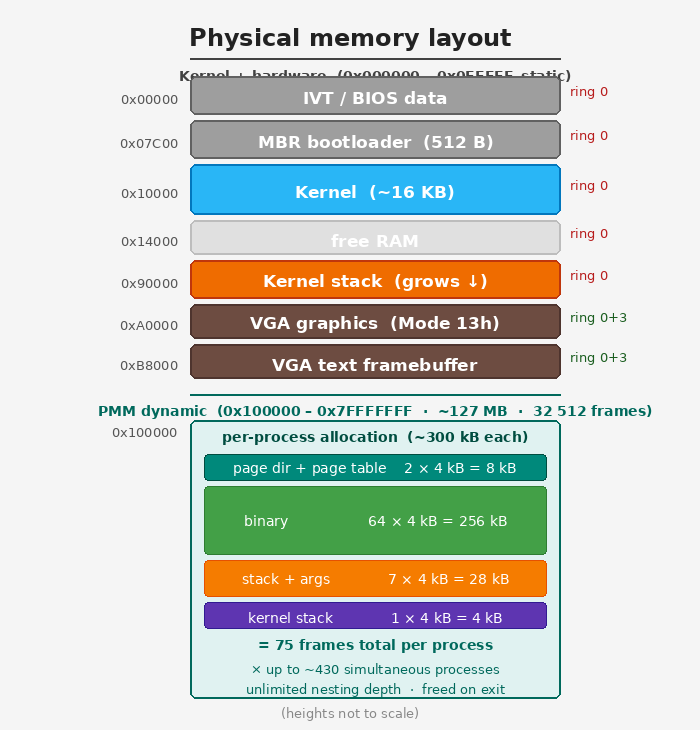
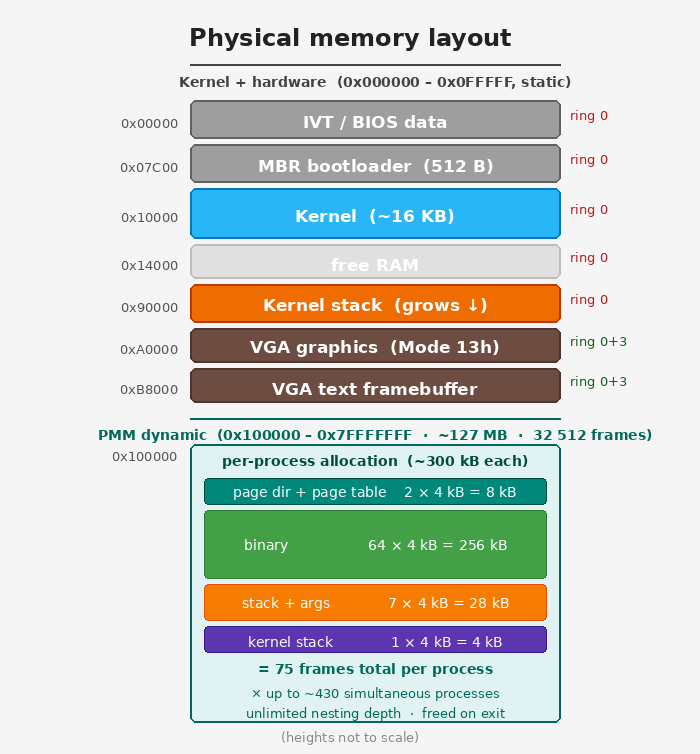
docs: fix diagram layout issues
physical-layout.png: push kernel/HW section down to avoid overlap
between section header text and title; increase canvas height.
virtual-layout.png: increase canvas width and reduce title font size
so the title is no longer clipped.

Changed region(s): [[0.12, 0.0301, 0.93, 0.9945]]

diff --git a/docs/gen_diagrams.py b/docs/gen_diagrams.py
@@ -94,7 +94,7 @@ def make_disk_layout():
 # ── physical-layout.png ───────────────────────────────────────────────────────
 
 def make_physical_layout():
-    W, H = 700, 730
+    W, H = 700, 754
     img = Image.new("RGB", (W, H), "#f5f5f5")
     draw = ImageDraw.Draw(img)
 
@@ -122,16 +122,16 @@ def make_physical_layout():
         text_center(draw, (LX+RX)//2, y + 18, text, fh, color)
 
     # ── kernel / hardware (static) ────────────────────────────────────────────
-    section_header(56, "Kernel + hardware  (0x000000 – 0x0FFFFF, static)", "#424242")
+    section_header(62, "Kernel + hardware  (0x000000 – 0x0FFFFF, static)", "#424242")
 
     kern_rows = [
-        (76,  38, "#9e9e9e", "#616161", "IVT / BIOS data",          "0x00000",  "ring 0",   "#b71c1c"),
-        (120, 38, "#9e9e9e", "#616161", "MBR bootloader  (512 B)",   "0x07C00",  "ring 0",   "#b71c1c"),
-        (164, 50, "#29b6f6", "#0277bd", "Kernel  (~16 KB)",          "0x10000",  "ring 0",   "#b71c1c"),
-        (220, 34, "#e0e0e0", "#bdbdbd", "free RAM",                  "0x14000",  "ring 0",   "#b71c1c"),
-        (260, 38, "#ef6c00", "#bf360c", "Kernel stack  (grows ↓)",   "0x90000",  "ring 0",   "#b71c1c"),
-        (304, 34, "#6d4c41", "#4e342e", "VGA graphics  (Mode 13h)",  "0xA0000",  "ring 0+3", "#1b5e20"),
-        (344, 34, "#6d4c41", "#4e342e", "VGA text framebuffer",      "0xB8000",  "ring 0+3", "#1b5e20"),
+        (100, 38, "#9e9e9e", "#616161", "IVT / BIOS data",          "0x00000",  "ring 0",   "#b71c1c"),
+        (144, 38, "#9e9e9e", "#616161", "MBR bootloader  (512 B)",   "0x07C00",  "ring 0",   "#b71c1c"),
+        (188, 50, "#29b6f6", "#0277bd", "Kernel  (~16 KB)",          "0x10000",  "ring 0",   "#b71c1c"),
+        (244, 34, "#e0e0e0", "#bdbdbd", "free RAM",                  "0x14000",  "ring 0",   "#b71c1c"),
+        (284, 38, "#ef6c00", "#bf360c", "Kernel stack  (grows ↓)",   "0x90000",  "ring 0",   "#b71c1c"),
+        (328, 34, "#6d4c41", "#4e342e", "VGA graphics  (Mode 13h)",  "0xA0000",  "ring 0+3", "#1b5e20"),
+        (368, 34, "#6d4c41", "#4e342e", "VGA text framebuffer",      "0xB8000",  "ring 0+3", "#1b5e20"),
     ]
     for (y, h, fill, outline, title, addr, ring_txt, ring_color) in kern_rows:
         draw_block(draw, LX, y, RX, y+h, fill, outline, title, "", fb, fs)
@@ -139,7 +139,7 @@ def make_physical_layout():
         ring_label(y + h//2 - 4, ring_txt, ring_color)
 
     # ── PMM dynamic region ────────────────────────────────────────────────────
-    PM_Y = 400
+    PM_Y = 424
     section_header(PM_Y - 8,
         "PMM dynamic  (0x100000 – 0x7FFFFFFF  ·  ~127 MB  ·  32 512 frames)",
         "#00695c")
@@ -176,21 +176,21 @@ def make_physical_layout():
 # ── virtual-layout.png ────────────────────────────────────────────────────────
 
 def make_virtual_layout():
-    W, H = 620, 430
+    W, H = 720, 430
     img = Image.new("RGB", (W, H), "#f5f5f5")
     draw = ImageDraw.Draw(img)
 
     fb  = load_font(17)
     fs  = load_font_regular(14)
-    ft  = load_font(24)
+    ft  = load_font(20)
     fl  = load_font_regular(13)
 
     text_center(draw, W // 2, 30,
                 "Virtual address space  (per process, all link at 0x400000)", ft, "#222")
 
-    LX   = 180
-    RX   = 500
-    LADDR = 168
+    LX   = 210
+    RX   = 530
+    LADDR = 198
 
     def addr_label(y, text):
         bbox = draw.textbbox((0, 0), text, font=fl)
